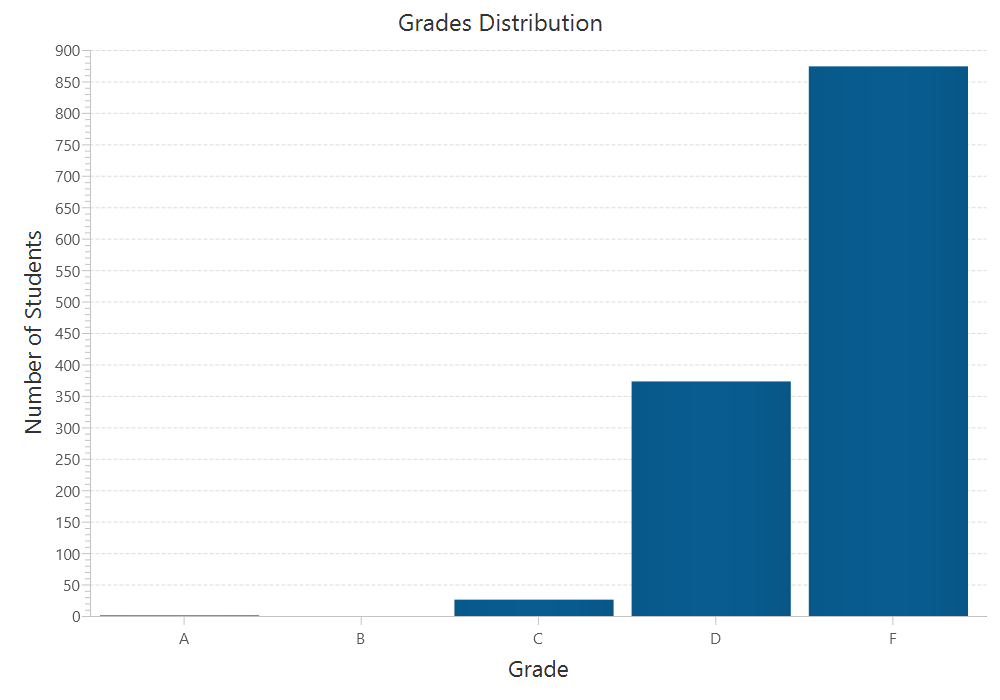
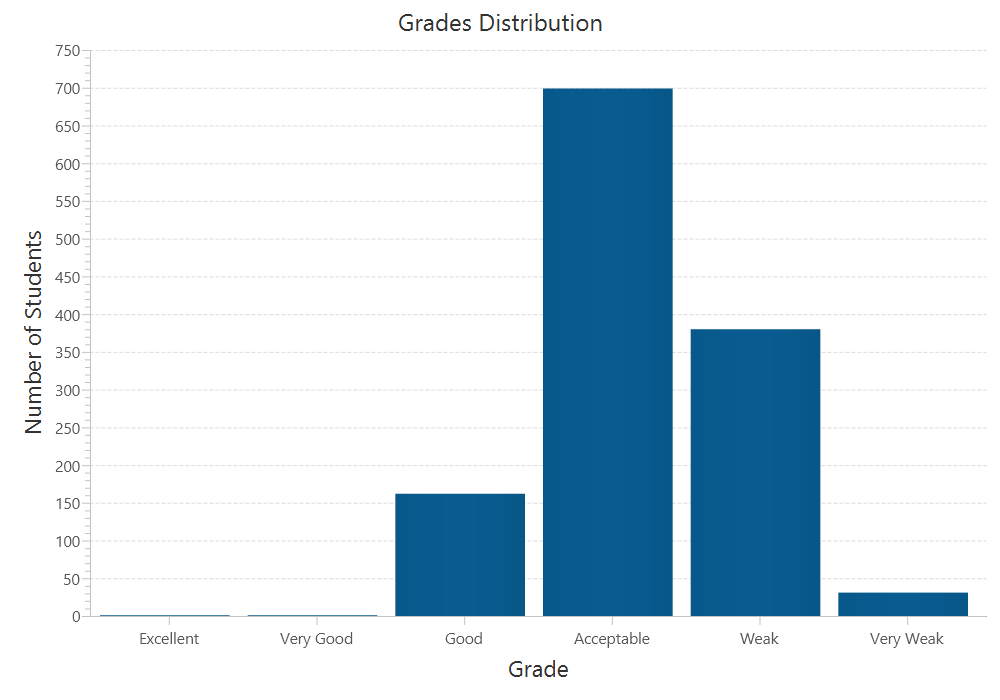
Normal scaling mode now ready

diff --git a/src/main/resources/reports/report1/Report1 - Grades Distribution Report.html b/src/main/resources/reports/report1/Report1 - Grades Distribution Report.html
@@ -114,7 +114,7 @@
       text-align: center
     }
 
-    img {
+    .grade-dist-img {
       display: block;
       margin-left: auto;
       margin-right: auto;
@@ -128,12 +128,16 @@
     .grayRow {
       background-color: #efefef;
     }
+    .text-img{
+      height: 16px;
+      width: auto;
+    }
   </style> 
  </head> 
  <body> 
   <div id="footer"> 
    <div id="footerLeft">
-    01/10/2018
+    13/10/2018
    </div> 
    <div id="footerRight">
     Page 
@@ -141,7 +145,7 @@
     <span id="pagecount"></span> 
    </div> 
    <div id="footerCenter">
-    Grades Distribution Report... امتحان جديد
+    Grades Distribution Report... vvcxzvcxv
    </div> 
   </div> 
   <div class="divTitle">
@@ -157,42 +161,42 @@
      <th class="tg-i13m">Percentage</th> 
     </tr>
     <tr class=" "> 
-     <td class="tg-l711 ">امتياز</td> 
+     <td class="tg-l711 "><img class="text-img" src="Excellent.png" /> </td> 
      <td class="tg-l711 ">85 - 100</td> 
      <td class="tg-l711 ">110.5 - 130.0</td> 
      <td class="tg-l711 ">1</td> 
      <td class="tg-l711 ">0.1%</td> 
     </tr>
     <tr class=" grayRow "> 
-     <td class="tg-l711 ">جيد جدا</td> 
+     <td class="tg-l711 "><img class="text-img" src="Very%20Good.png" /> </td> 
      <td class="tg-l711 ">75 - 85</td> 
      <td class="tg-l711 ">97.5 - 110.5</td> 
      <td class="tg-l711 ">1</td> 
      <td class="tg-l711 ">0.1%</td> 
     </tr>
     <tr class=" "> 
-     <td class="tg-l711 ">جيد</td> 
+     <td class="tg-l711 "><img class="text-img" src="Good.png" /> </td> 
      <td class="tg-l711 ">65 - 75</td> 
      <td class="tg-l711 ">84.5 - 97.5</td> 
      <td class="tg-l711 ">162</td> 
      <td class="tg-l711 ">12.7%</td> 
     </tr>
     <tr class=" grayRow "> 
-     <td class="tg-l711 ">مقبول</td> 
+     <td class="tg-l711 "><img class="text-img" src="Acceptable.png" /> </td> 
      <td class="tg-l711 ">50 - 65</td> 
      <td class="tg-l711 ">65.0 - 84.5</td> 
      <td class="tg-l711 ">699</td> 
      <td class="tg-l711 ">54.9%</td> 
     </tr>
     <tr class=" "> 
-     <td class="tg-l711 ">ضعيف</td> 
+     <td class="tg-l711 "><img class="text-img" src="Weak.png" /> </td> 
      <td class="tg-l711 ">30 - 50</td> 
      <td class="tg-l711 ">39.0 - 65.0</td> 
      <td class="tg-l711 ">380</td> 
      <td class="tg-l711 ">29.8%</td> 
     </tr>
     <tr class=" grayRow "> 
-     <td class="tg-l711 ">ضعيف جدا</td> 
+     <td class="tg-l711 "><img class="text-img" src="Very%20Weak.png" /> </td> 
      <td class="tg-l711 ">0 - 30</td> 
      <td class="tg-l711 ">0.0 - 39.0</td> 
      <td class="tg-l711 ">31</td> 
@@ -200,6 +204,6 @@
     </tr> 
    </tbody>
   </table> 
-  <img src="GradesDistributionHistogram.png" width="80%" height="auto" />   
+  <img class="grade-dist-img" src="GradesDistributionHistogram.png" width="80%" height="auto" />   
  </body>
 </html>

diff --git a/src/main/java/Jowil/GradeBoundariesController.java b/src/main/java/Jowil/GradeBoundariesController.java
@@ -37,7 +37,7 @@ public class GradeBoundariesController extends Controller {
 
 
     GradeBoundariesController(Controller back) {
-        super("gradeBoundaries.fxml", "Grading Scale and Report Generation", 1.25, 1.25, true, back,"4.png",3,"Grading Scale & Reports",resX*950/1280,resY*500/680);
+        super("gradeBoundaries.fxml", "Grading Scale and Report Generation", 1.25, 1.25, true, back,"4.png",3,"Grading Scale & Reports",resX*790/1280,resY*500/680);
 
 
     }
@@ -94,11 +94,12 @@ public class GradeBoundariesController extends Controller {
 
 
 
+    static final String PERCENT_TEXT="Score %";
 
     HBox gradesLabelsHBox = new HBox();
 
     Label gradeName = new Label("Name");
-    Label gradePercent = new Label("Score %");
+    Label gradePercent = new Label(PERCENT_TEXT);
     Label gradeRaw = new Label("Score");
     Label reportsLabel = new Label("Reports");
     Label formatsLabel = new Label("File Formats");
@@ -197,6 +198,13 @@ public class GradeBoundariesController extends Controller {
         gradeName.setFont(gradesLabelsFonts);
         gradePercent.setFont(gradesLabelsFonts);
         gradeRaw.setFont(gradesLabelsFonts);
+
+        if(!isTranslationMode){
+            if(rootWidth<900)
+                gradePercent.setText("%");
+            else
+                gradePercent.setText(PERCENT_TEXT);
+        }
 
         trashIcon.setSize(Double.toString(DEFAULT_FONT_AWESOME_ICON_SIZE));
         folderIcon.setSize(Double.toString(DEFAULT_FONT_AWESOME_ICON_SIZE));
@@ -437,6 +445,7 @@ public class GradeBoundariesController extends Controller {
 
     public void addNextGrade(int callingIndex) {
         int newIndex = callingIndex + 1;
+        isContentEdited=true;
 
         for (int i = callingIndex + 1; i < gradesHBoxes.size(); i++)
             gradesHBoxes.get(i).incrementIndex();
@@ -451,6 +460,7 @@ public class GradeBoundariesController extends Controller {
         if (gradesHBoxes.size() == 1) //never delete last hbox
             return;
 
+        isContentEdited=true;
         for (int i = callingIndex + 1; i < gradesHBoxes.size(); i++)
             gradesHBoxes.get(i).decrementIndex();
 

diff --git a/src/main/java/Jowil/GroupsController.java b/src/main/java/Jowil/GroupsController.java
@@ -91,9 +91,10 @@ public class GroupsController  extends Controller{
 
 
 
+    static final String Q_COUNT_COL_TITLE="Questions Count";
 
     JFXTreeTableColumn<Group,String> groupNamesCol = new JFXTreeTableColumn<>("Group");
-    JFXTreeTableColumn<Group,String> qCountCol = new JFXTreeTableColumn<>("Questions Count");
+    JFXTreeTableColumn<Group,String> qCountCol = new JFXTreeTableColumn<>(Q_COUNT_COL_TITLE);
 
 
 
@@ -196,7 +197,7 @@ public class GroupsController  extends Controller{
         infoScrollPane.setPrefHeight(groupsTable.getPrefHeight());
         infoVBox.setPrefWidth(groupsTable.getPrefWidth()*0.98);
 
-        infoVBox.setMinWidth(900*0.27);
+        infoVBox.setMinWidth(920*0.27);
 
         //gridPaneContainer.setMaxWidth(infoVBox.getPrefWidth());
 
@@ -224,6 +225,14 @@ public class GroupsController  extends Controller{
 
 
         manualButton.toFront(); //so that it's clickable and not the buttons hbox
+
+        if(!isTranslationMode){ // to prevent questions count title from being replaced by bubbles
+            if(rootWidth<900)
+                qCountCol.setText("Q. Count");
+            else
+                qCountCol.setText(Q_COUNT_COL_TITLE);
+        }
+
 
 
 

diff --git a/src/main/java/Jowil/ManualModeController.java b/src/main/java/Jowil/ManualModeController.java
@@ -152,6 +152,20 @@ public class ManualModeController extends Controller{
         columnSetCombo.setPrefWidth(tableVBox.getPrefWidth()*0.25);
         //columnSetHBox.setPadding(new Insets(rootHeightToPixels(0.05),0,0,0));
 
+        if(rootWidth<minWidth) {
+            columnSetTextField.setStyle("-fx-font-size:" + rootWidth * 1.25 * 14 / 1280);
+            columnSetCombo.setStyle("-fx-font-size:"+rootWidth * 1.25 * 14 / 1280);
+            double scalingFactor=isTranslationMode?1.2:1.25;
+            addButton.setStyle("-fx-font-size:"+rootWidth * scalingFactor* 12 / 1280);
+            resetButton.setStyle("-fx-font-size:"+rootWidth * scalingFactor * 12 / 1280);
+        }
+        else{
+            columnSetTextField.setStyle("-fx-font-size:"+ resX*14/1280 );
+            columnSetCombo.setStyle("-fx-font-size:"+resX*14/1280);
+            addButton.setStyle("");
+            resetButton.setStyle("");
+        }
+
         double buttImageSize=resX*13/1280;
         addButtonGraphic.setFitWidth(buttImageSize);
         addButtonGraphic.setFitHeight(buttImageSize);

diff --git a/src/main/java/Jowil/Controller.java b/src/main/java/Jowil/Controller.java
@@ -65,8 +65,8 @@ public abstract class Controller {
     boolean isHeightCalling;
     final double DEFAULT_FONT_AWESOME_ICON_SIZE=resX*27/1280;
     protected final double minWidth,minHeight;
-    static boolean isTranslationMode=true;
-    static boolean isNormalScalingMode=true;
+    static boolean isTranslationMode=false;  //Arabic -> true
+    static boolean isNormalScalingMode=true; // normal scaling true-> resX will be set to 1280 and resY to 680 so that all calculations are made in absolute pixels count and not relative to screen resolution
 
 
 
